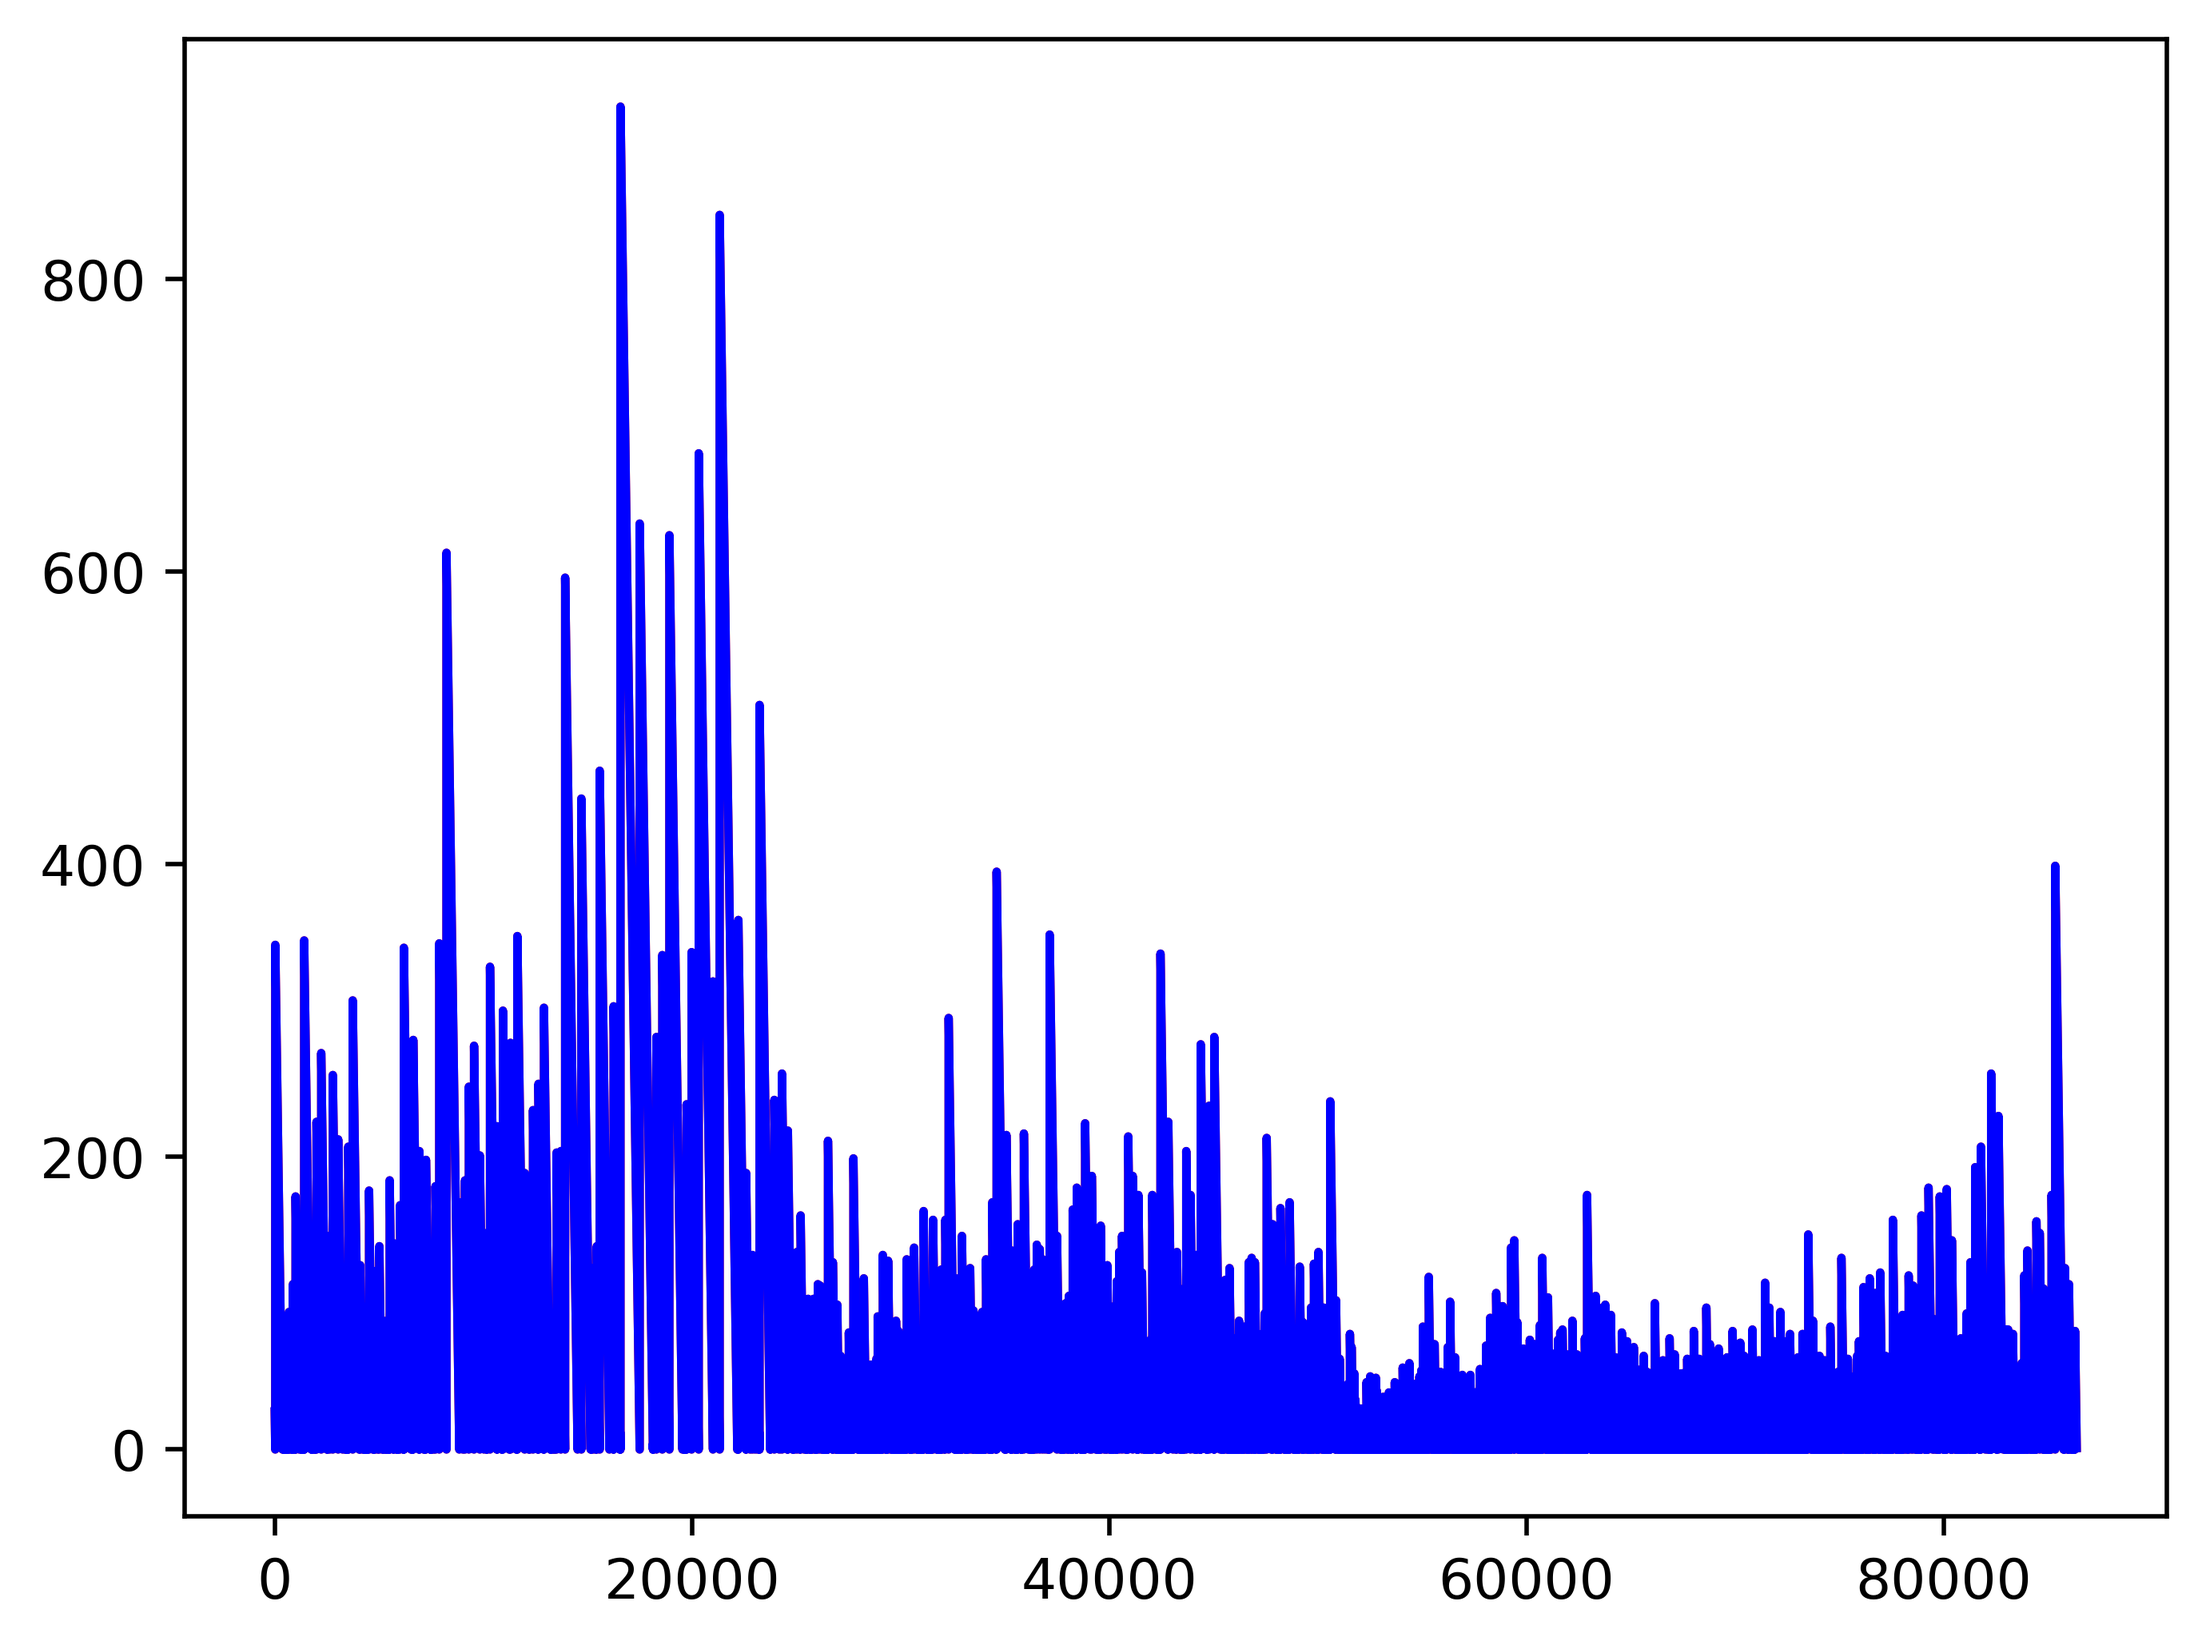
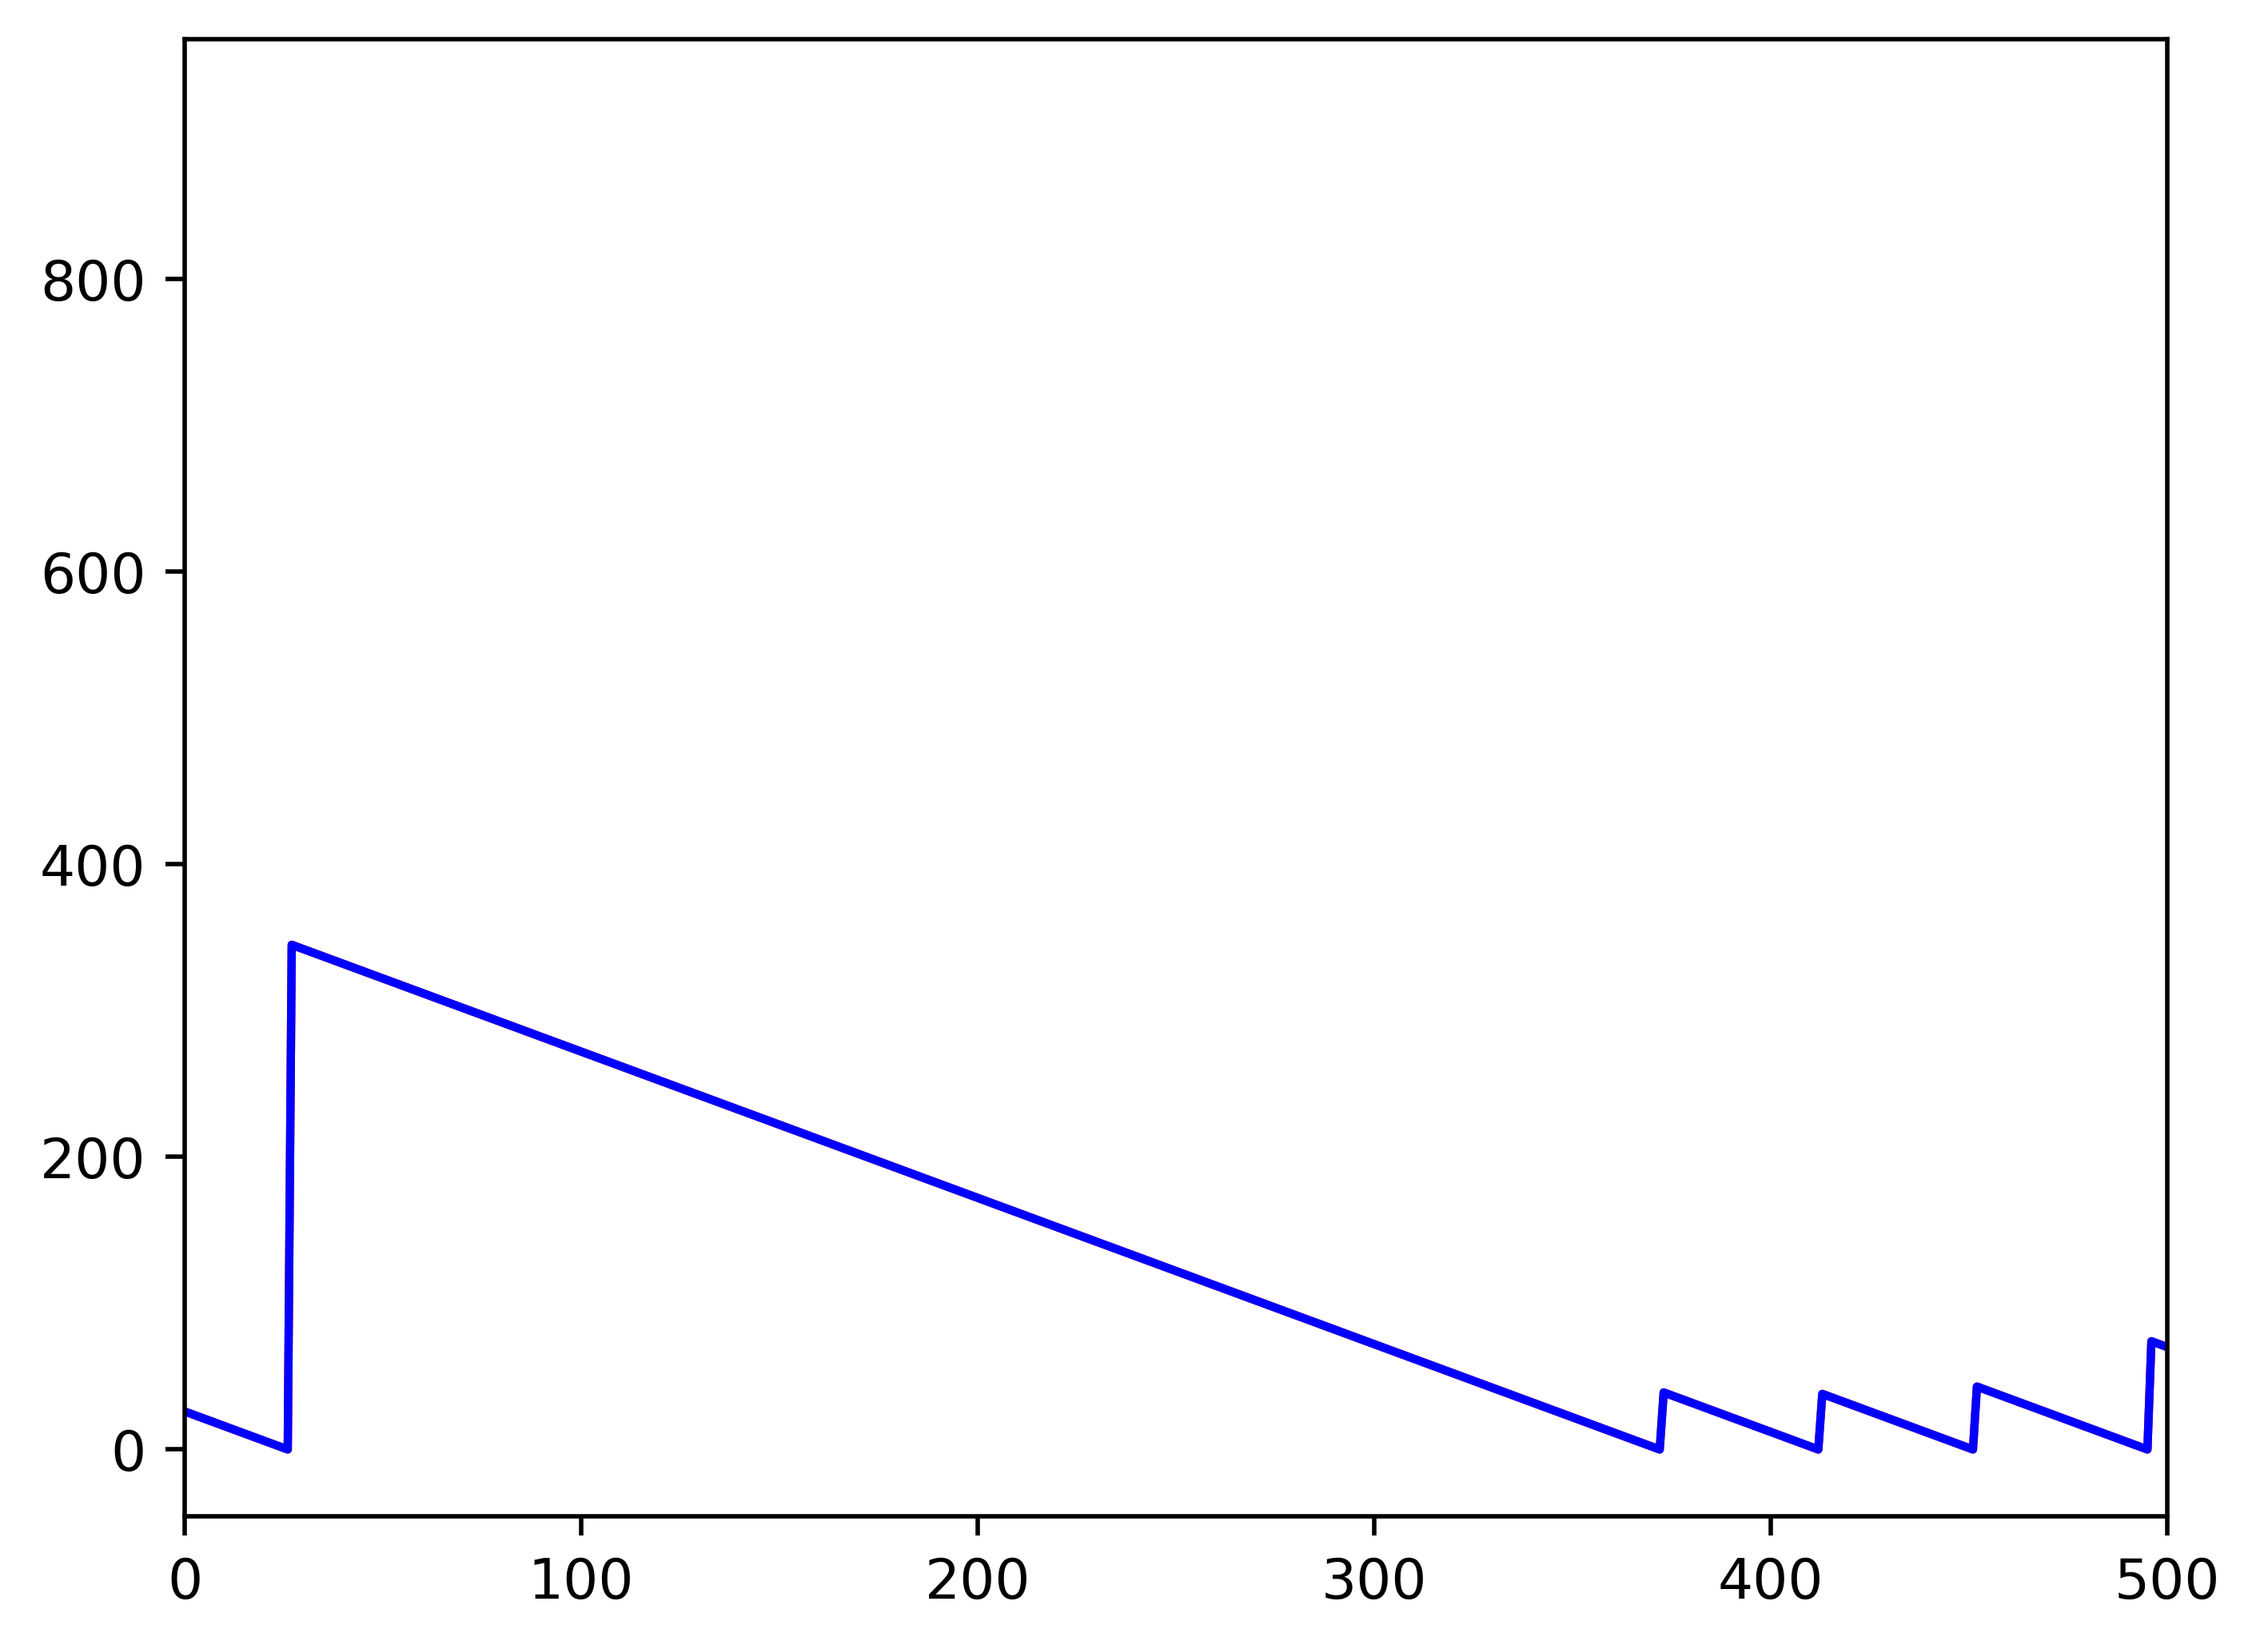
Zoom in on fit_to_train

diff --git a/test_model.py b/test_model.py
@@ -22,7 +22,7 @@ preds = model.predict(D_train)
 fig, ax = plt.subplots(dpi=500)
 ax.plot(preds, "r")
 ax.plot(Y_train, "b")
-
+plt.xlim(0, 500)
 plt.savefig("./images/fit_to_train.png", bbox_inches='tight', dpi=500)
 plt.show()
 
